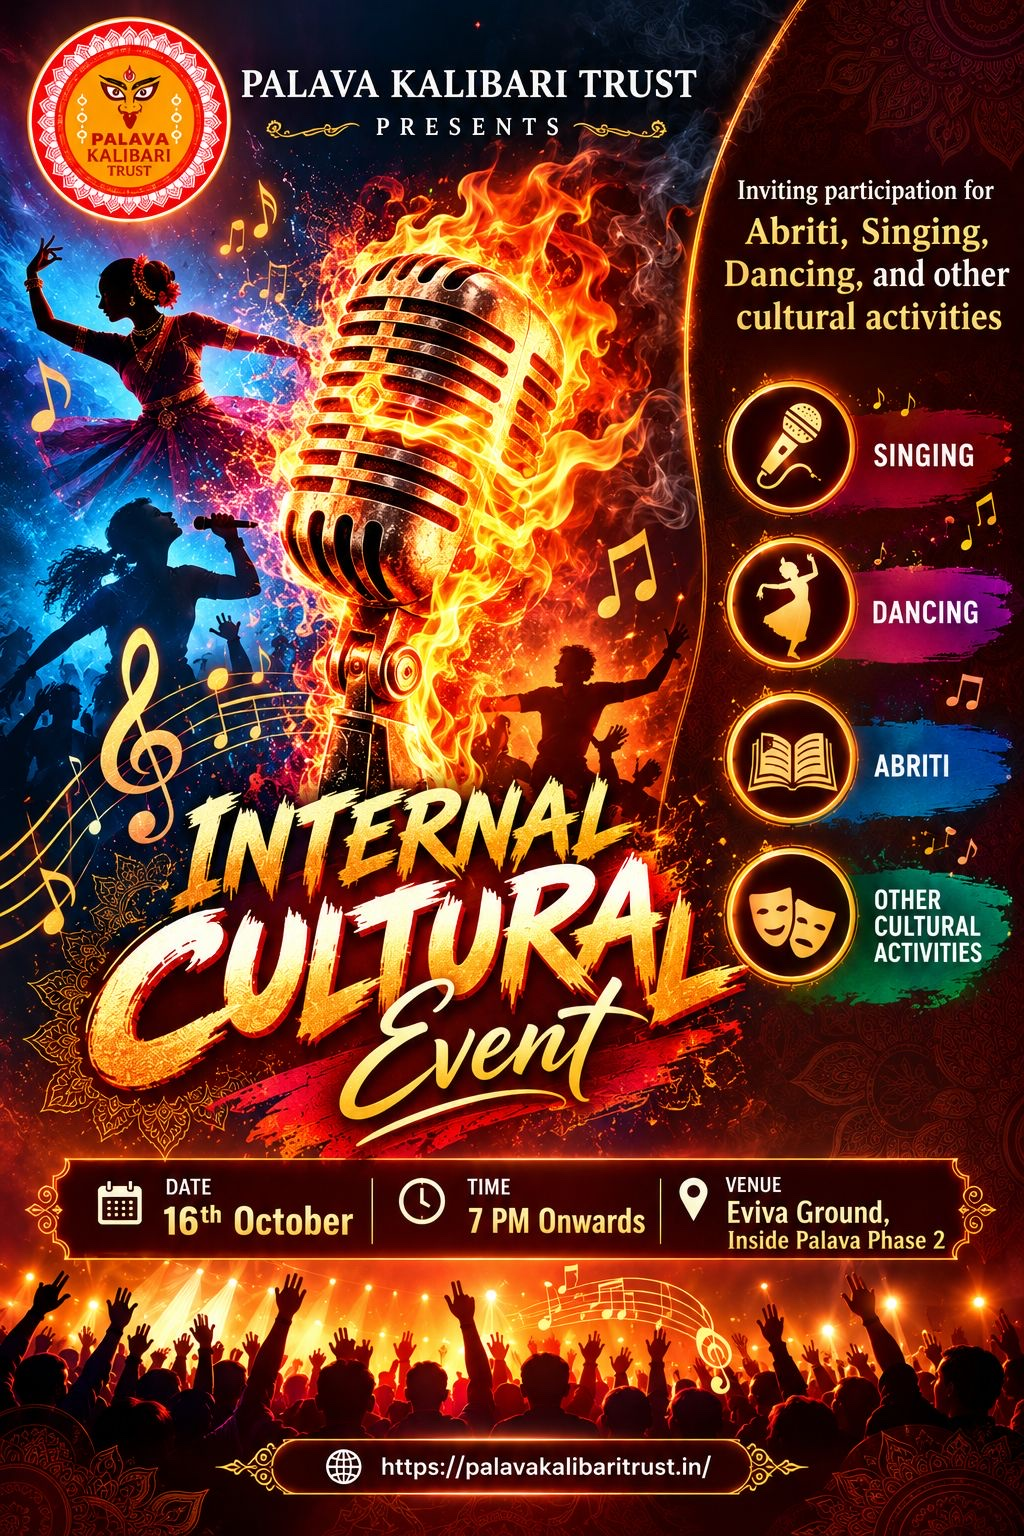
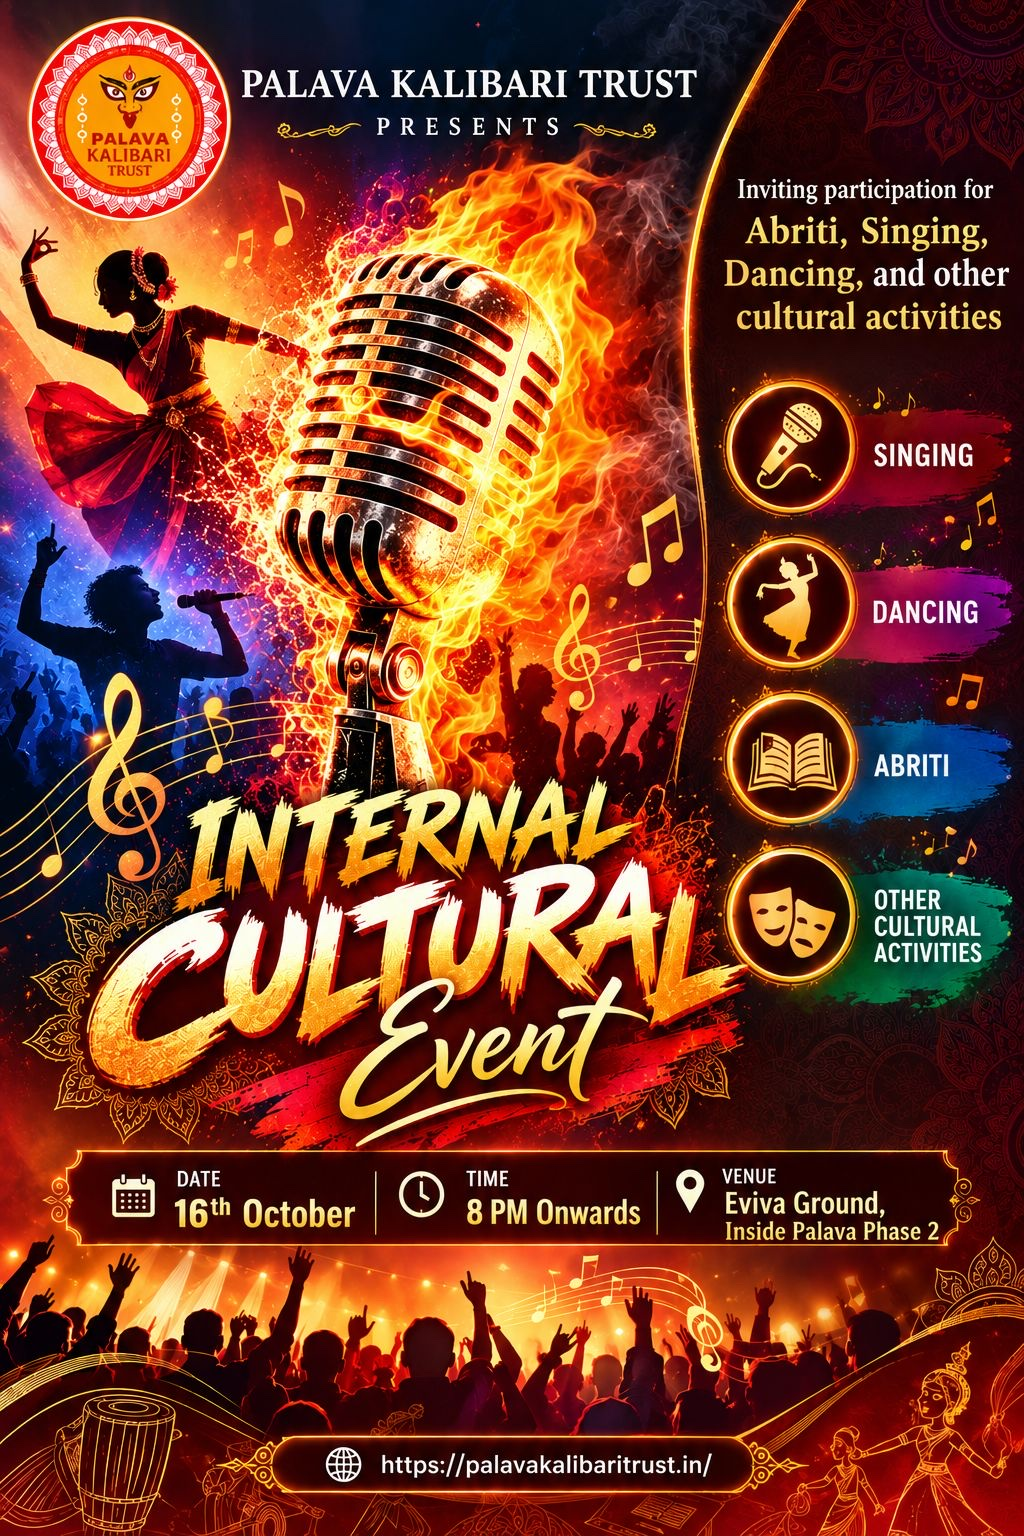
Internal Cultural Event: updated 8 PM poster

diff --git a/src/App.jsx b/src/App.jsx
@@ -509,7 +509,7 @@ const CULTURAL_EVENTS = [
   {
     name: 'Internal Cultural Event',
     tag: 'Abriti • Singing • Dancing',
-    flyer: '/internal-cultural.jpg?v=1',
+    flyer: '/internal-cultural.jpg?v=2',
     date: '16 October 2026',
     details: '16th October, 8 PM onwards • Eviva Ground, Inside Palava Phase 2',
     note: 'Inviting participation for Abriti, Singing, Dancing & other cultural activities',
